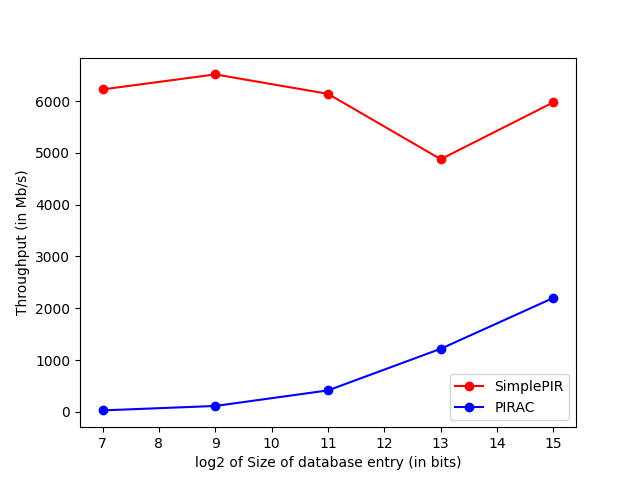
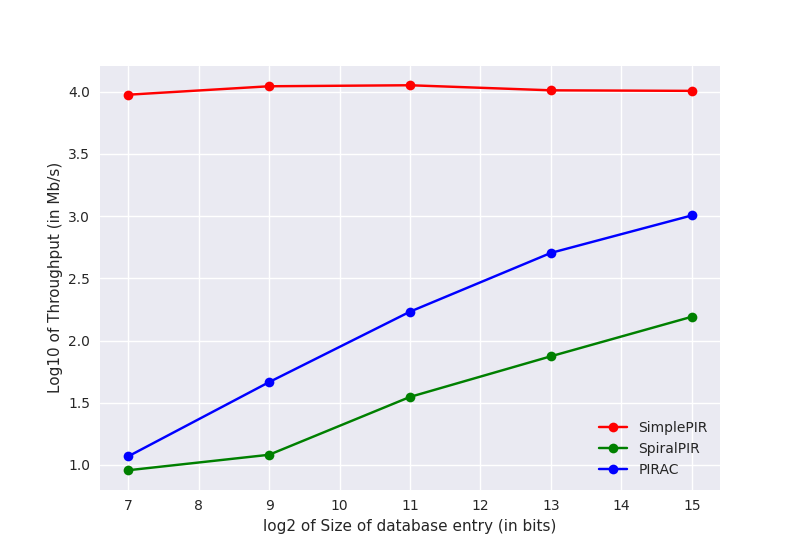
added evaluation code for spiralpir

diff --git a/benchmarking/eval_spiralpir.py b/benchmarking/eval_spiralpir.py
@@ -1,0 +1,68 @@
+import subprocess
+import os
+import json
+
+SpiralPirPath = "../../spiral"
+
+def run_SpiralPIR(N, D, output=False):
+    process = subprocess.Popen(f'python3 select_params.py {N} {D//8}', 
+                            shell=True,
+                            stdout=subprocess.PIPE, 
+                            stderr=subprocess.PIPE,
+                            universal_newlines=True)
+
+    statistics = None
+    if output:
+        i = 0
+        while True:
+            output = process.stdout.readline()
+            print(i, output.strip())
+            i+=1
+            try:
+                statistics = json.loads(output)
+            except:
+                pass # invalid parsing
+
+            return_code = process.poll()
+            if return_code is not None:
+                print('RETURN CODE', return_code)
+                # Process has finished, read rest of the output 
+                for output in process.stdout.readlines():
+                    print(output.strip())
+                break
+    else:
+        stdout, _ = process.communicate()
+        for line in stdout.split('\n'):
+            try:
+                statistics = json.loads(line)
+            except:
+                pass # invalid parsing
+    
+    assert statistics is not None
+    return statistics["dbsize"]/statistics["total_us"]
+
+def benchmark_SpiralPir(db_sizes, elem_sizes):
+    """
+    Take db sizes in log 2 and elem_sizes in bits
+    """
+    throughputs = []
+    for db_size in db_sizes:
+        for elem_size in elem_sizes:
+            throughput = run_SpiralPIR(db_size, elem_size)
+            print(f"Throughput on SpiralPIR with log2 dbsize = {db_size}, elem size = {elem_size} bits = {throughput}Mb/s")
+            throughputs.append(throughput)
+    
+    return throughputs
+
+if __name__ == "__main__":
+    os.chdir(SpiralPirPath)
+    print(os.getcwd())
+
+    db_sizes = [10,12,14,16,18,20]
+    elem_sizes = [1<<i for i in [7,9,11,13,15]] #in bits
+
+    throughputs_dbsizes = benchmark_SpiralPir(db_sizes, [2048])
+    # throughputs_elemsizes = benchmark_SimplePir(12, elem_sizes)
+
+    print(throughputs_dbsizes)
+    # print(throughputs_elemsizes)

diff --git a/benchmarking/eval.py b/benchmarking/eval.py
@@ -1,12 +1,18 @@
 from eval_pirac import benchmark_pirac
 from eval_simplepir import benchmark_SimplePir
+from eval_spiralpir import benchmark_SpiralPir
 import matplotlib.pyplot as plt
 import ctypes
 import pathlib
 import os
+import numpy as np
+
+plt.style.use('seaborn')
 
 SimplePirPath = "../simplepir/pir"
+SpiralPirPath = "../../spiral"
 
+DBSIZE = 16
 if __name__ == "__main__":
     log2_db_sizes = [10,12,14,16,18,20]
     db_sizes = [1<<i for i in log2_db_sizes]
@@ -17,15 +23,20 @@ if __name__ == "__main__":
     owd = os.getcwd()
 
     os.chdir(SimplePirPath)
-    simplepir = benchmark_SimplePir([12], elem_sizes)
+    simplepir = benchmark_SimplePir([DBSIZE], elem_sizes)
 
     os.chdir(owd)
-    pirac = benchmark_pirac([1<<12], [i//128 for i in elem_sizes], True, num_iter=5)
+    os.chdir(SpiralPirPath)
+    spiralpir = benchmark_SpiralPir([DBSIZE], elem_sizes)
+
+    os.chdir(owd)
+    pirac = benchmark_pirac([1<<DBSIZE], [i//128 for i in elem_sizes], True, num_iter=5)
 
     plt.figure()
-    plt.plot(log2_elem_sizes, simplepir, "r-o", label="SimplePIR")
-    plt.plot(log2_elem_sizes, pirac, "b-o", label="PIRAC")
+    plt.plot(log2_elem_sizes, np.log10(simplepir), "r-o", label="SimplePIR")
+    plt.plot(log2_elem_sizes, np.log10(spiralpir), "g-o", label="SpiralPIR")
+    plt.plot(log2_elem_sizes, np.log10(pirac), "b-o", label="PIRAC")
     plt.xlabel("log2 of Size of database entry (in bits)")
-    plt.ylabel("Throughput (in Mb/s)")
+    plt.ylabel("Log10 of Throughput (in Mb/s)")
     plt.legend()
     plt.savefig("images/comparision_elem_sizes.png")
